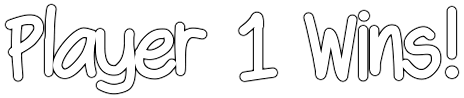
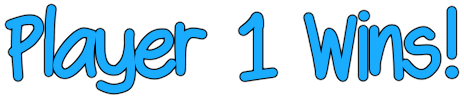
Added game status controller & several labels.

Changed region(s): [[0.0, 0.0306, 0.4526, 0.9796], [0.6336, 0.0612, 0.9957, 0.8265], [0.5129, 0.1224, 0.6034, 0.8265]]

diff --git a/src/main/java/com/example/nimgame/fxml/GameController.java b/src/main/java/com/example/nimgame/fxml/GameController.java
@@ -3,22 +3,18 @@ package com.example.nimgame.fxml;
 import com.example.nimgame.Launcher;
 import com.example.nimgame.fxml.object.Pile;
 import com.example.nimgame.fxml.object.PileSelectionListener;
-import com.example.nimgame.game.*;
-import com.example.nimgame.game.player.AiPlayer;
-import com.example.nimgame.game.player.Difficulty;
-import com.example.nimgame.game.flow.AutoGameFlow;
+import com.example.nimgame.game.GameFactory;
+import com.example.nimgame.game.Move;
+import com.example.nimgame.game.Status;
+import com.example.nimgame.game.StatusListener;
 import com.example.nimgame.game.flow.GameFlow;
-import com.example.nimgame.game.player.PlayerFactory;
-import com.example.nimgame.game.position.ClassicPosition;
-import com.example.nimgame.game.position.MiserePosition;
-import com.example.nimgame.game.position.Position;
+import com.example.nimgame.game.player.Difficulty;
 import com.example.nimgame.game.position.Version;
 import javafx.scene.image.Image;
 import javafx.scene.layout.FlowPane;
 import javafx.scene.layout.Pane;
 
 import java.util.ArrayList;
-import java.util.List;
 
 public class GameController
         implements PileSelectionListener, StatusListener {
@@ -26,9 +22,9 @@ public class GameController
     public static final Image ITEM_IMAGE =
             new Image(String.valueOf(Launcher.class.getResource("assets/items/stone1.png")));
 
-    private static final int misereGameRows = 4;
-
     private final Pane pileContainer;
+
+    private final StatusController statusController;
 
     private Difficulty difficulty;
 
@@ -38,15 +34,17 @@ public class GameController
 
     private ArrayList<Pile> piles;
 
-    public GameController(Pane pileContainer, Difficulty difficulty, Version version) {
+    public GameController(Pane pileContainer, StatusController statusController, Difficulty difficulty, Version version) {
         this.pileContainer = pileContainer;
-        this.difficulty = difficulty;
-        this.version = version;
+        this.statusController = statusController;
+        setDifficulty(difficulty);
+        setVersion(version);
         refresh();
     }
 
     public void setDifficulty(Difficulty difficulty) {
         this.difficulty = difficulty;
+        statusController.setMultiPlayer(difficulty == Difficulty.NONE);
         refresh();
     }
 
@@ -61,7 +59,8 @@ public class GameController
     }
 
     private void initialize() {
-        gameFlow = GameFactory.start(difficulty, version, this);
+        gameFlow = GameFactory.start(difficulty, version, this, statusController);
+        statusController.setStatus(gameFlow.getGame().getStatus());
     }
 
     private void display() {

diff --git a/src/main/java/com/example/nimgame/fxml/MapController.java b/src/main/java/com/example/nimgame/fxml/MapController.java
@@ -41,6 +41,7 @@ public class MapController
     public ImageView
             ibStart,
             ibExit,
+            statusImageView,
             abiFreePlay,
             abiEasy,
             abiMedium,
@@ -62,11 +63,14 @@ public class MapController
     public void initialize(URL location, ResourceBundle resources) {
         pilesContainer.setFillWidth(true);
         pilesContainer.setSpacing(20);
-        gameController = new GameController(pilesContainer, Difficulty.EASY, Version.CLASSIC);
+        var statusController = new StatusController(statusImageView, true);
+        gameController = new GameController(pilesContainer, statusController, Difficulty.NONE, Version.CLASSIC);
         ibStart.setOnMouseClicked(e -> gameController.play());
         ibExit.setOnMouseClicked(e -> Platform.exit());
         difficultyGroup = new RadioGroup(e -> setDifficulty(), abFreePlay, abEasy, abMedium, abHard, abPerfect);
         versionGroup = new RadioGroup(e -> setVersion(), abClassic, abMisere);
+        difficultyGroup.select(abFreePlay);
+        versionGroup.select(abClassic);
     }
 
     public void initMouseDragging(Stage stage) {
@@ -103,7 +107,7 @@ public class MapController
     }
 
     static class RadioGroup {
-        final ArrayList<Node> buttons = new ArrayList<>();
+        final ArrayList<Node> panes = new ArrayList<>();
 
         final ColorAdjust brighter = new ColorAdjust(), darker = new ColorAdjust();
 
@@ -111,11 +115,11 @@ public class MapController
 
         AnchorPane selected = null;
 
-        RadioGroup(EventHandler<MouseEvent> onSelection, AnchorPane... buttons) {
-            this.buttons.addAll(List.of(buttons));
+        RadioGroup(EventHandler<MouseEvent> onSelection, AnchorPane... panes) {
+            this.panes.addAll(List.of(panes));
             brighter.setBrightness(0);
             darker.setBrightness(-0.5);
-            for (var pane : buttons) {
+            for (var pane : panes) {
                 var button = new ToggleButton();
                 button.setToggleGroup(group);
                 button.setVisible(false);
@@ -128,6 +132,16 @@ public class MapController
                     selected = pane;
                     onSelection.handle(e);
                 });
+            }
+        }
+
+        void select(AnchorPane pane) {
+            for (var i : pane.getChildren()) {
+                if (i instanceof ToggleButton button) {
+                    button.setSelected(true);
+                    selected = pane;
+                    break;
+                }
             }
         }
     }

diff --git a/src/main/java/com/example/nimgame/fxml/StatusController.java b/src/main/java/com/example/nimgame/fxml/StatusController.java
@@ -1,0 +1,53 @@
+package com.example.nimgame.fxml;
+
+import com.example.nimgame.Launcher;
+import com.example.nimgame.game.Status;
+import com.example.nimgame.game.StatusListener;
+import javafx.scene.image.Image;
+import javafx.scene.image.ImageView;
+
+import java.util.HashMap;
+
+public class StatusController
+        implements StatusListener {
+
+    private final HashMap<String, Image> images = new HashMap<>();
+
+    private final ImageView statusImageView;
+
+    private boolean isMultiPlayer;
+
+    public StatusController(ImageView statusImageView, boolean isMultiPlayer) {
+        this.statusImageView = statusImageView;
+        this.isMultiPlayer = isMultiPlayer;
+    }
+
+    public void setMultiPlayer(boolean isMultiPlayer) {
+        this.isMultiPlayer = isMultiPlayer;
+    }
+
+    @Override
+    public void onStatusChange(Status status) {
+        setStatus(status);
+    }
+
+    public void setStatus(Status status) {
+        var key = imageName(status);
+        images.putIfAbsent(key, loadImage(key));
+        this.statusImageView.setImage(images.get(key));
+    }
+
+    private String imageName(Status status) {
+        return switch (status) {
+            case FIRST_PLAYER_TURN -> isMultiPlayer ? "Player-1-Turn" : "Your-Turn";
+            case SECOND_PLAYER_TURN -> isMultiPlayer ? "Player-2-Turn" : "Computers-Turn";
+            case FIRST_PLAYER_WON -> isMultiPlayer ? "Player-1-Wins" : "You-Win";
+            case SECOND_PLAYER_WON -> isMultiPlayer ? "Player-2-Wins" : "Computer-Wins";
+            case MOVE_NOT_ALLOWED -> "Not-Allowed";
+        } + ".png";
+    }
+
+    private Image loadImage(String imageName) {
+        return new Image(String.valueOf(Launcher.class.getResource("assets/texts/" + imageName)));
+    }
+}

diff --git a/src/main/java/com/example/nimgame/game/Status.java b/src/main/java/com/example/nimgame/game/Status.java
@@ -1,22 +1,9 @@
 package com.example.nimgame.game;
 
 public enum Status {
-    GAME_START("Start Picking!"),
-    FIRST_PLAYER_TURN("Player 1 Turn"),
-    SECOND_PLAYER_TURN("Player 2 Turn"),
-    MOVE_NOT_ALLOWED("Not Allowed!"),
-    FIRST_PLAYER_WON("Player 1 Wins!"),
-    SECOND_PLAYER_WON("Player 2 Wins!"),
-    ;
-
-    private final String string;
-
-    Status(String string) {
-        this.string = string;
-    }
-
-    @Override
-    public String toString() {
-        return string;
-    }
+    FIRST_PLAYER_TURN,
+    SECOND_PLAYER_TURN,
+    MOVE_NOT_ALLOWED,
+    FIRST_PLAYER_WON,
+    SECOND_PLAYER_WON,
 }

diff --git a/src/main/java/com/example/nimgame/game/position/PositionFactory.java b/src/main/java/com/example/nimgame/game/position/PositionFactory.java
@@ -8,7 +8,7 @@ public interface PositionFactory {
     int MISERE_GAME_ROWS = 5;
 
     static Position getInitialPosition(Version version) {
-        return version == Version.CLASSIC ? getMiserePosition() : getClassicPosition();
+        return version == Version.CLASSIC ? getClassicPosition() : getMiserePosition();
     }
 
     static private Position getMiserePosition() {

diff --git a/src/main/java/com/example/nimgame/game/Game.java b/src/main/java/com/example/nimgame/game/Game.java
@@ -10,7 +10,7 @@ public class Game {
 
     private List<Position> successors;
 
-    private Status status = Status.GAME_START;
+    private Status status;
 
     private boolean frozen = false;
 
